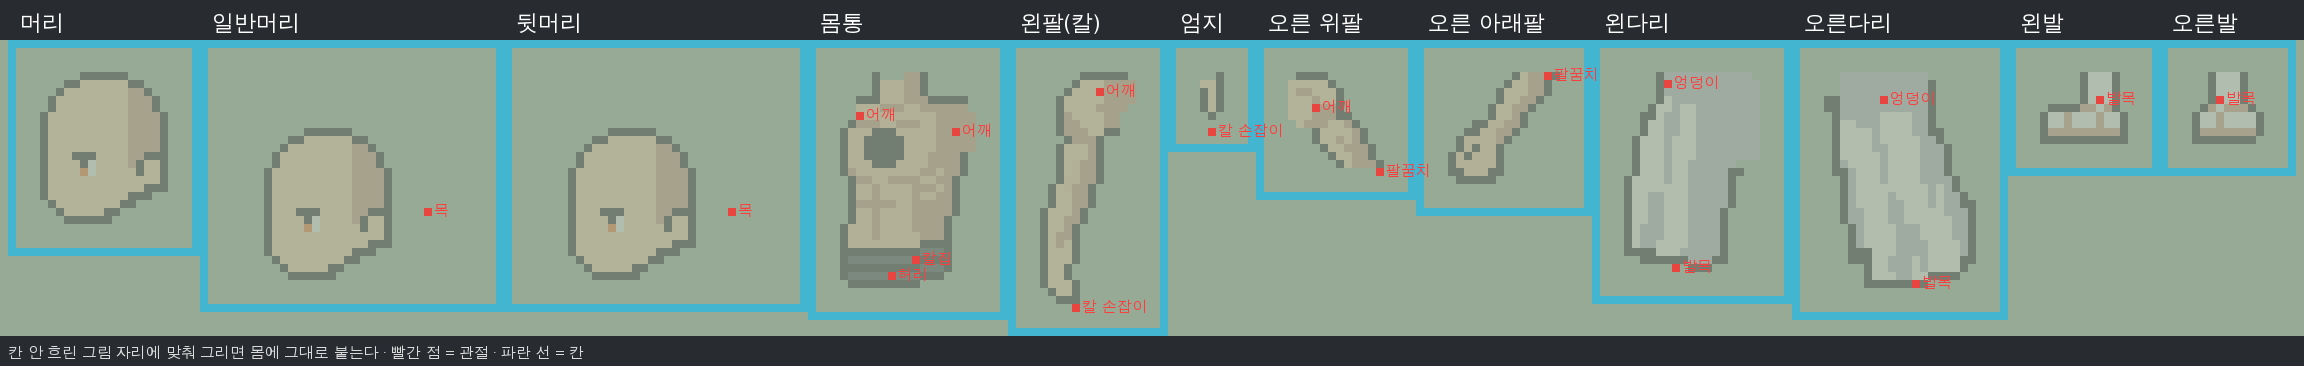
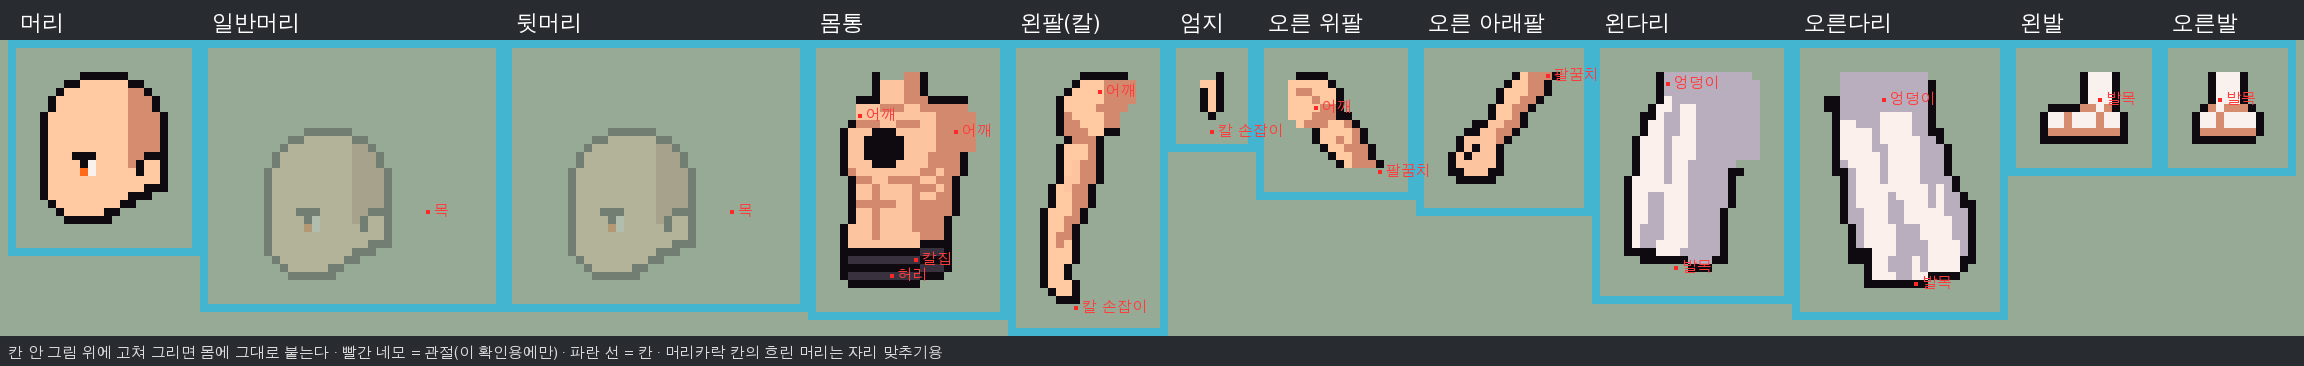
C.151 종이인형 가이드 시트: 부위 불투명(그 위에 고쳐 그리기), 관절점은 8배에만
Claude-Session: https://claude.ai/code/session_011W8zFEjKADtTYyQZXReU7r

diff --git a/scripts/rig/guide.py b/scripts/rig/guide.py
@@ -1,9 +1,10 @@
 #!/usr/bin/env python3
 """알몸 기본형 가이드 시트 (GDD 96장 16).
 
-부위마다 칸(그리는 자리)을 한 줄로 늘어놓고, 칸 안에 기본형 부위를 흐리게(반투명) 깔고 관절점을 찍는다.
-칸 안에서 기본형과 같은 자리에 그리면 몸에 그대로 맞는다 — 가져오기: import_cut.py <시트> --body <몸> --guide <가이드.json>
-가이드 칸 테두리·흐린 부위·관절점은 모두 반투명이라 가져올 때 무시된다(불투명 칸만 그림으로 읽음).
+부위마다 칸(그리는 자리)을 한 줄로 늘어놓고, 칸 안에 기본형 부위를 그대로(불투명) 넣는다 — 그 위에 고쳐 그리면 된다.
+칸 안 그림이 곧 그 부위: 가져오기 import_cut.py <시트> --body <몸> --guide <가이드.json> (안 고친 칸은 그대로 들어가 바뀌지 않음)
+머리카락 칸에는 자리 맞추기용 머리만 반투명으로 깔고, 칸 테두리도 반투명 — 가져올 때 무시된다(불투명 칸만 읽음).
+관절점·이름은 8배 확인용(guide-x8.png)에만 찍는다(1배에 찍으면 그림 칸을 덮으므로).
 
 출력(<out>): guide.png(1배, 그리기용), guide-x8.png(8배, 칸 이름·관절 표시), guide.json(칸 → 슬롯·캔버스 자리)
 사용: python3 scripts/rig/guide.py [--look arrancar-base] [--out docs/design/user-art/arrancar-base-guide]
@@ -46,9 +47,10 @@ def main():
         art = body.get(p)
         if p in ('hair', 'hair_back'):
             # 머리카락은 머리카락 틀 전체가 칸. 흐린 그림 = 머리(머리카락이 있으면 머리카락)
-            boxes.append({'slot': p, 'canvas': [fx, fy], 'size': [fw, fh], 'ghost': [x for x in (body.get('head'), look.get(p)) if isinstance(x, dict)]})
+            boxes.append({'slot': p, 'canvas': [fx, fy], 'size': [fw, fh], 'ghost': [body['head']] if body.get('head') else [],
+                          'solid': [look[p]] if isinstance(look.get(p), dict) else []})
         elif art:
-            boxes.append({'slot': p, 'canvas': [art['at'][0] - PAD, art['at'][1] - PAD], 'size': [art['size'][0] + 2 * PAD, art['size'][1] + 2 * PAD], 'ghost': [art]})
+            boxes.append({'slot': p, 'canvas': [art['at'][0] - PAD, art['at'][1] - PAD], 'size': [art['size'][0] + 2 * PAD, art['size'][1] + 2 * PAD], 'ghost': [], 'solid': [art]})
     H = max(b['size'][1] for b in boxes) + 2 * TOP
     W = sum(b['size'][0] for b in boxes) + GAP * (len(boxes) + 1)
     img = np.zeros((H, W, 4), np.uint8)
@@ -57,13 +59,13 @@ def main():
         b['sheet'] = [x, TOP]
         cx, cy = b['canvas']
         w, h = b['size']
-        for g in b['ghost']:
+        for g, alpha in [(g, GHOST_A) for g in b['ghost']] + [(g, 255) for g in b['solid']]:
             pa = np.array(Image.open(os.path.join(ART, g['art'] + '.png')).convert('RGBA'))
             ox, oy = g['at'][0] - cx + x, g['at'][1] - cy + TOP
             for yy, xx in zip(*np.nonzero(pa[..., 3] > 0)):
                 X, Y = ox + xx, oy + yy
                 if x <= X < x + w and TOP <= Y < TOP + h:
-                    img[Y, X] = (*pa[yy, xx, :3], GHOST_A)
+                    img[Y, X] = (*pa[yy, xx, :3], alpha)
         # 칸 테두리(칸 바로 바깥 1줄 — 위·아래만, 양옆은 칸 사이 GAP 가운데)
         img[TOP - 1, x - 1:x + w + 1] = LINE
         if TOP + h < H:
@@ -77,10 +79,9 @@ def main():
             if bb['id'] == bone or bb['parent'] == bone:
                 px, py = bb['pivot']
                 if cx <= px < cx + w and cy <= py < cy + h:
-                    img[py - cy + TOP, px - cx + x] = PIVOT
                     pts.append(bb['id'])
         b['pivots'] = pts
-        del b['ghost']
+        del b['ghost'], b['solid']
         x += w + GAP
     os.makedirs(a.out, exist_ok=True)
     Image.fromarray(img).save(os.path.join(a.out, 'guide.png'))
@@ -108,8 +109,9 @@ def main():
         for pid in b['pivots']:
             bb = bones[pid]
             px, py = bb['pivot'][0] - b['canvas'][0] + sx, bb['pivot'][1] - b['canvas'][1] + sy
+            d.rectangle([px * K + 2, py * K + top + 2, px * K + K - 3, py * K + top + K - 3], outline=(255, 40, 40, 255), width=2)
             d.text((px * K + 10, py * K + top - 8), pname.get(pid, pid), fill=(255, 60, 60, 255), font=fs)
-    d.text((8, H * K + top + 6), '칸 안 흐린 그림 자리에 맞춰 그리면 몸에 그대로 붙는다 · 빨간 점 = 관절 · 파란 선 = 칸', fill=(220, 220, 220, 255), font=fs)
+    d.text((8, H * K + top + 6), '칸 안 그림 위에 고쳐 그리면 몸에 그대로 붙는다 · 빨간 네모 = 관절(이 확인용에만) · 파란 선 = 칸 · 머리카락 칸의 흐린 머리는 자리 맞추기용', fill=(220, 220, 220, 255), font=fs)
     out.save(os.path.join(a.out, 'guide-x8.png'))
     print(f'가이드 {W}×{H}, 칸 {len(boxes)}개 → {a.out}')
 

diff --git a/docs/GDD.md b/docs/GDD.md
@@ -3929,7 +3929,7 @@ data/
 16. **아란칼 기본형 = 알몸 고정 · 가이드 시트 (사용자 2026-10-28 원문 "지금 알몸값, 위치, 관절등등 있지. 이대로 고정시키고, 이걸 아란칼 base로 저장해. 이거대로 만들 수 있게, 알몸 기본형 가이드 시트? 만들어줘")**
    - 외형 `arrancar-base` = 알몸 몸(`bare`, 대머리·칼·칼집). 옛 옷 입은 아란칼은 `arrancar-coat`. 알몸의 다리·발도 `bare/` 로 복사해 혼자 서는 몸으로.
    - 고정: `src/data/art/rig/arrancar-base.lock.json`(관절·쉬는 각도·앞뒤 순서·부위 자리). 도구가 값을 바꾸면 테스트가 막는다 — 사용자가 고친 값이면 고정 파일도 같이 고친다.
-   - 가이드 시트: `scripts/rig/guide.py` → `docs/design/user-art/arrancar-base-guide/`(guide.png 1배 그리기용, guide-x8.png 이름·관절 표시, guide.json). 부위마다 칸 하나(여유 3칸), 칸 안에 기본형 흐린 그림 + 관절점(반투명). 칸 안 같은 자리에 그리면 `import_cut.py --guide` 가 칸 → 부위·자리로 바로 넣는다(빈 칸은 그대로, 뒷머리 칸이 비면 뒷머리 없음).
+   - 가이드 시트: `scripts/rig/guide.py` → `docs/design/user-art/arrancar-base-guide/`(guide.png 1배 그리기용, guide-x8.png 이름·관절 표시, guide.json). 부위마다 칸 하나(여유 3칸), 칸 안에 기본형 부위를 그대로(불투명) 넣어 그 위에 고쳐 그린다(사용자 2026-10-28 "그 가이드를 투명화 시키면 내가 읽을수가 없는데. 몸통 다 보이도록 해야지?"). 머리카락 칸만 자리 맞추기용 머리를 반투명으로, 관절점·이름은 8배 확인용에만. 칸 안 같은 자리에 그리면 `import_cut.py --guide` 가 칸 → 부위·자리로 바로 넣는다(빈 칸은 그대로, 뒷머리 칸이 비면 뒷머리 없음).
 17. **편집기 값 = 게임 값 (사용자 2026-10-28 원문 "지금 내가 저장해둔 대로 안 되고 또 네 맘대로 임의대로 바뀌어 있는데 뭐임?")**
    - 원인: 편집기 값이 사용자 기기 브라우저에만 저장돼 Claude 가 못 읽었고(시험 페이지·고정 파일은 데이터 값), 칼·칼집 자리는 편집기를 다시 열 때 불러오지도 않았다.
    - 고침: 편집기가 값을 아티팩트 서버 저장(db 문서 `rig/editor`, 전체 상태 JSON)에도 저장 → Claude 가 읽어 `apply_editor.py` 로 데이터에 넣는다. 서버 값이 있으면 어느 기기에서 열어도 그 값. 칼·칼집 자리도 저장·복원.

diff --git a/docs/dev-log.md b/docs/dev-log.md
@@ -1403,6 +1403,7 @@ C.0 ~ C.59 는 `docs/dev-log-archive.md` 로 옮겼다(2026-10-20, 사용량 절
 - 편집기 '고정' 버튼: db `rig/fixed` + Claude 에게 댓글 보내기(GDD 96장 20).
 - 세 번째 고정(팔꿈치 관절 (32,41), 사용자 편집기 값), 가이드 시트 재생성.
 - 고정 버튼 첫 반영(칼집 관절·자리), 칼집 쉬는 각도 -32°, 걷기 팔 펴기(GDD 96장 21).
+- 가이드 시트: 부위를 불투명으로(그 위에 고쳐 그림), 관절점은 8배에만. 가이드 그대로 다시 읽으면 데이터 변화 없음 확인.
 - **테스트** `tests/paperdoll.test.ts` 28개(부위 그림 크기 = 파일 크기 확인 추가, `tests/helpers/pngSize.ts`).
 - 이 브랜치에 있던 옛 홈 물건 32칸 작업(C.113 번호, main 에 안 들어감)은 main 쪽으로 되돌렸다. 도구 `scripts/depixel/`(도트 되돌리기·긴 쪽 N칸·색 수 제한·재질 2톤·줄 밀기)·`scripts/sprite-rig/`(옛 시험)는 남김.
 
